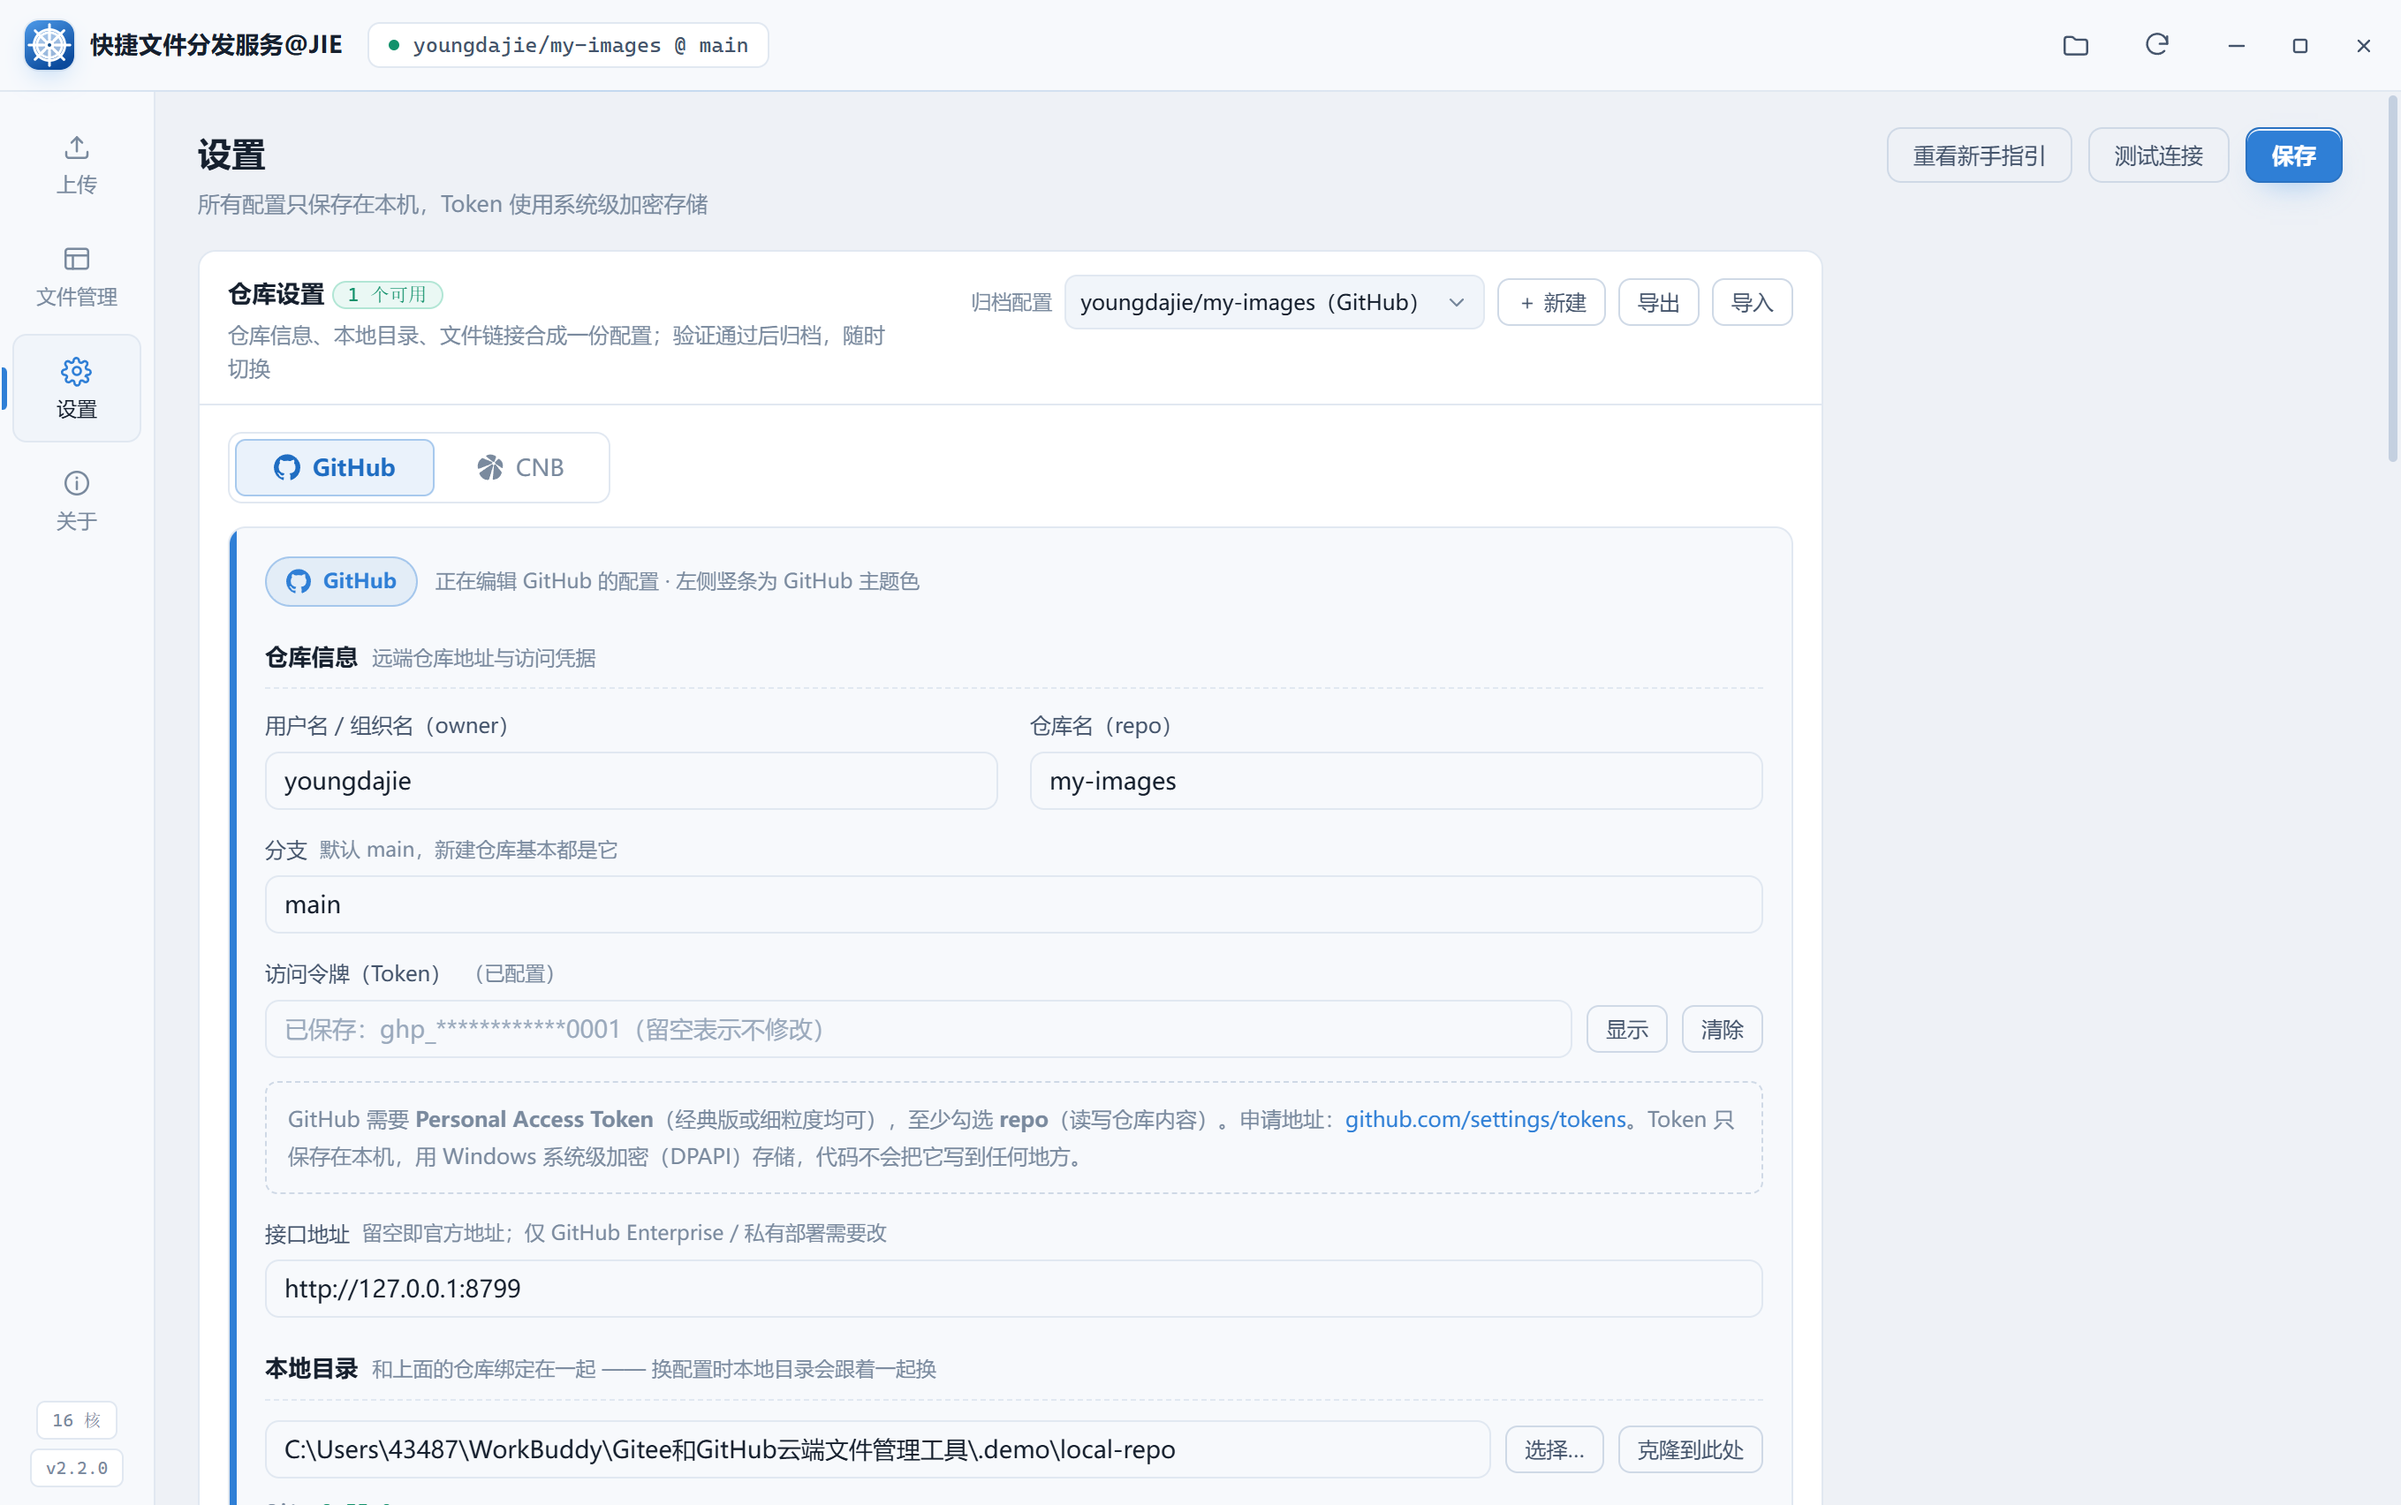
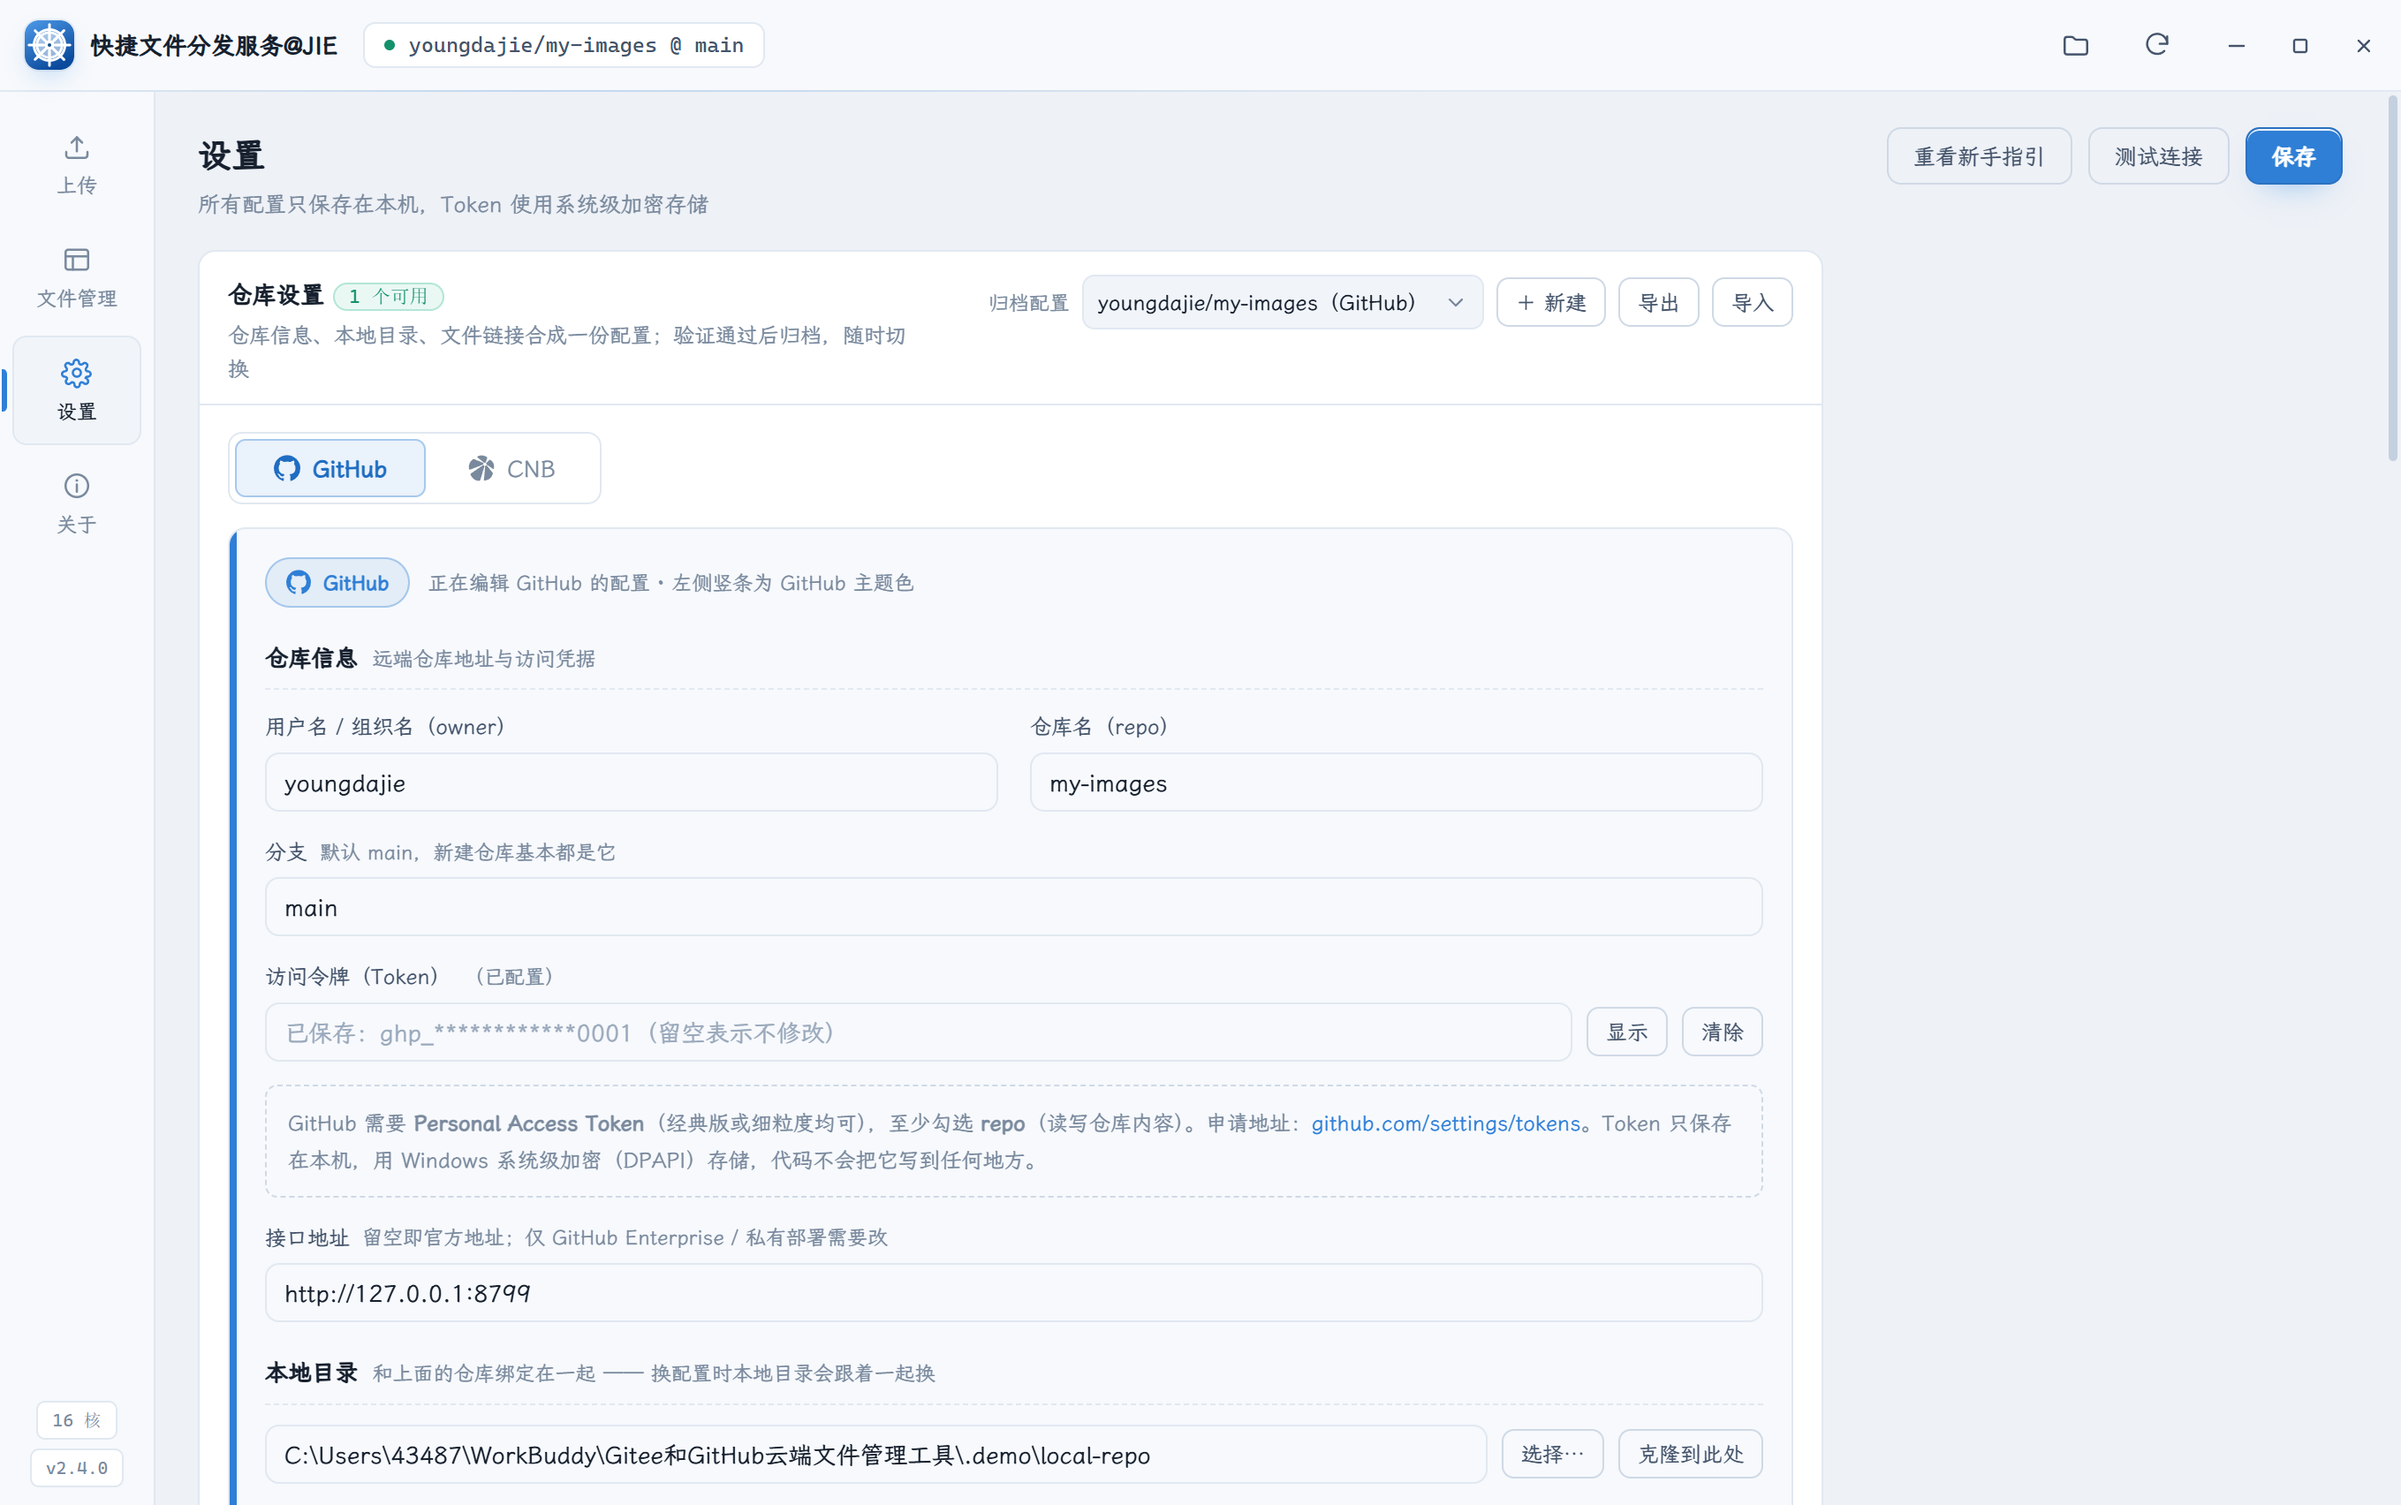
docs: 刷新界面截图，并改掉两处已经过时的说法
截图全部重出：默认主字体换成霞鹜文楷之后，每一张的正文都不是原来那个字体了，
关于页的版本号也变成了 2.4.0。

顺手修两处文案：
- 关于页说引导「走完才让用」—— 现在右上角有 ❌ 可以随时退出，改成说清
  「不想走就按 ❌，之后在设置页能重看」。
- README 里那段「安装向导的位图把版本号画在里面，改完版本要先 npm run art 再打包」
  已经不成立（位图和脚本都删了），换成一句「npm run dist 就是全部」，
  免得下次又被这段提示领着去找一个不存在的脚本。

diff --git a/src/renderer/js/pages/about.js b/src/renderer/js/pages/about.js
@@ -65,7 +65,7 @@ function render() {
     '<li><b>不止是图片</b>——仓库能装什么，它就能管什么。只要不越过 CNB / GitHub 的配额，就不额外设限。</li>' +
     '<li><b>云端和本地是同一份东西</b>——仓库会拉到本地，管理界面直接读本地磁盘，所以翻起来是瞬时的；' +
     '两边都能改名、移动、替换内容，本地改完点一下「提交并推送」就能推回云端。</li>' +
-    '<li><b>第一次打开有引导</b>——选平台、填仓库与令牌（现场验证）、映射本地目录，走完才让用，省得配置漏项。</li>' +
+    '<li><b>第一次打开有引导</b>——选平台、填仓库与令牌（现场验证）、映射本地目录，一步步带过；不想走就按右上角 ❌ 退出，之后在「设置」页能重看。</li>' +
     '</ul>' +
     '</div>' +
     '</section>' +

diff --git a/README.md b/README.md
@@ -158,10 +158,8 @@ npm run dist          # 生成 NSIS 安装包到 dist/
 npm run dist:dir      # 只生成免安装目录 dist/win-unpacked/
 ```
 
-> 安装向导的标题横幅与欢迎页竖图是 `build/make-installer-art.py` 程序化画的
-> （`build/installerHeader.bmp` 150×57 / `build/installerSidebar.bmp` 164×314，24 位 BMP），
-> **版本号是画进位图里的**——改了 `package.json` 的 `version` 之后要先 `npm run art`
-> 再打包，否则向导里印的还是上一版。
+> 安装向导用的是 NSIS 原始界面：没有自定义头图 / 侧边图，所以
+> **不存在「改了版本号还要重新生成位图」这一步**，`npm run dist` 就是全部。
 
 ## 使用说明
 
@@ -172,8 +170,8 @@ npm run dist:dir      # 只生成免安装目录 dist/win-unpacked/
    - 目标目录不用手打：点「浏览云端…」逐层浏览仓库里现有的目录，选中即可。
 3. **管理**：左侧「文件管理」页浏览文件，支持改名、移动、替换、删除；本地改完点「提交并推送」同步云端。
 4. **链接**：选中文件复制对应格式的链接；预览走直链，可配置 CDN 代理加速。
-5. **多仓库 / 多平台**：设置页的「仓库设置」是一份完整配置（仓库信息 + 本地目录 + 文件链接）。填好点「验证并归档」存下来，右上角的下拉菜单随时切换；「导出 / 导入」可以把这些配置带到别的机器，导入时会逐份体检并告诉你哪一块需要修。
-6. **外观**：设置页最下方的「外观」里切换深色 / 浅色主题，也可以换界面字体（只改界面显示，不影响压缩与上传结果）。
+5. **多仓库 / 多平台**：设置页的「仓库设置」是一份完整配置（仓库信息 + 本地目录 + 文件链接）。填上仓库名它就存下来了，列表里标着「待验证」；点「验证并归档」会真的连一次、确认可用后标成「可用」。切平台或点「新建」开出来的**空白**配置只是内部落点，不会出现在列表里。右上角的下拉随时切换；「导出 / 导入」可以把这些配置带到别的机器，导入时会逐份体检并告诉你哪一块需要修。
+6. **外观**：设置页最下方的「外观」里切换深色 / 浅色主题，也可以换界面字体 —— 列的是**本机真实装了的**全部字体（一百多款，自己装的也在内），带关键字筛选；默认主字体是霞鹜文楷，没装则自动用微软雅黑。只改界面显示，不影响压缩与上传结果。
 
 ## 免费额度边界
 
